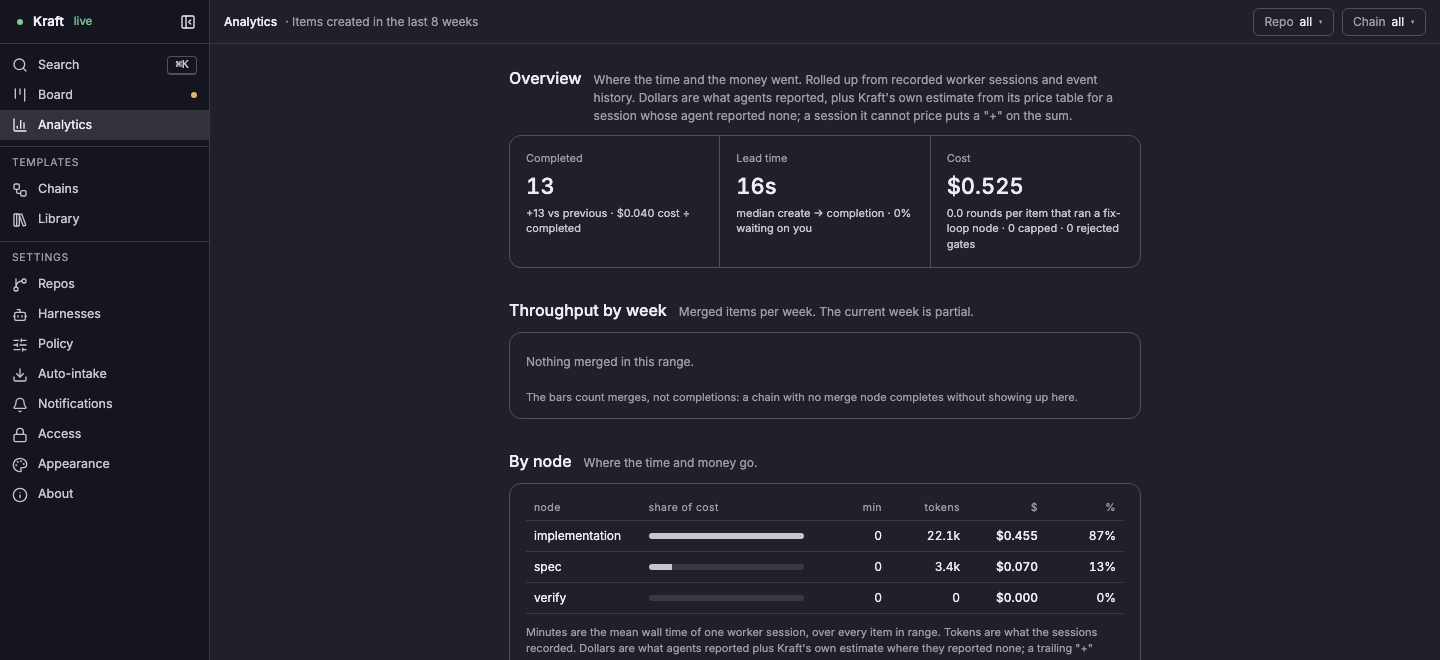
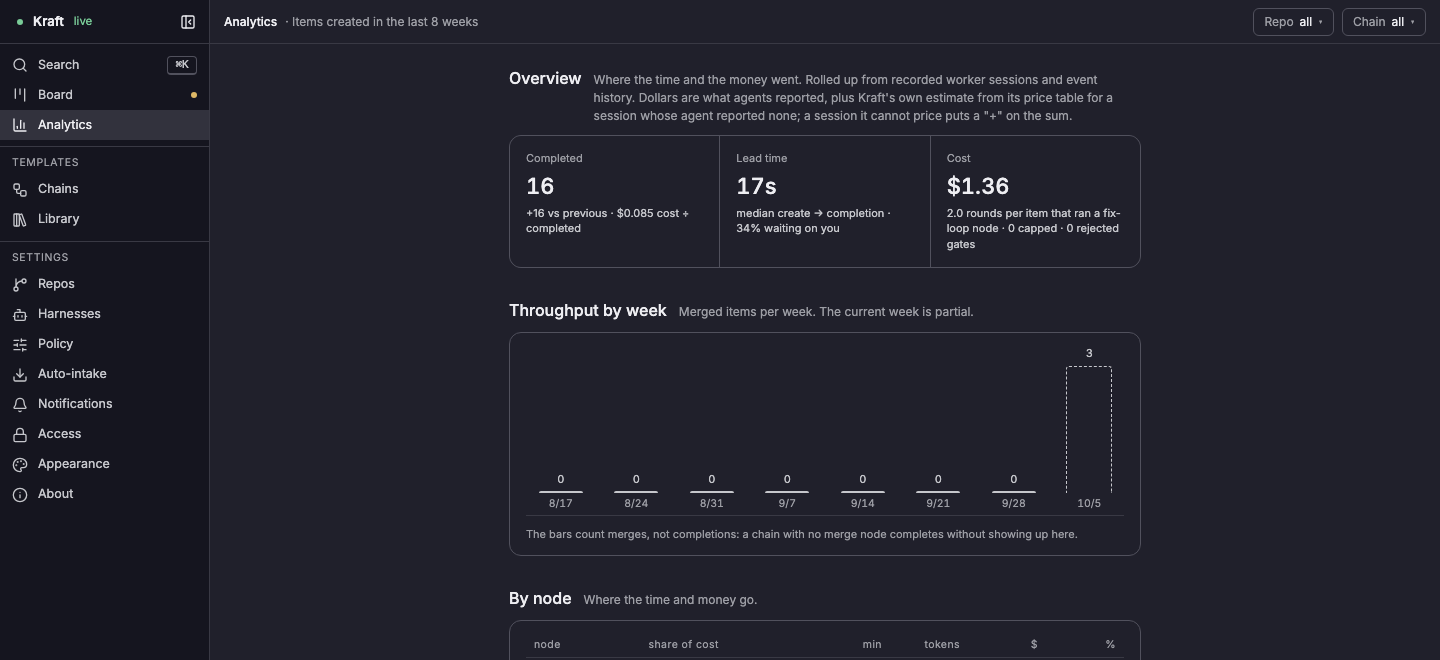
Docs pictures: analytics.png taken after three default-chain items ran to a merge, and the README step that does it

diff --git a/frontend/README.md b/frontend/README.md
@@ -320,6 +320,24 @@ variables on each one.**
    The Done group sorts the newest first, and the frame cuts it after one row:
    finish a clean item last, so an abandoned one is not the row that shows.
 
+   Analytics needs merged items: Throughput counts merges, and the dev repo
+   uses the in-process fake forge, so a default-chain item reaches `merge`.
+   File three with `--autostart` on the default chain, then approve each gate
+   as it comes (`spec_approval`, `plan_approval`, `local_review`,
+   `final_review`) until the item is `completed`. Read the state with `view
+   list`; give the wait a limit of a few minutes. Do not use the item that
+   `gate`, `item` and `review` show:
+
+   ```bash
+   KRAFT_HOME=$PWD/.dev KRAFT_PORT=8766 uv run kraft item create "Cache the schema lookups" --repo .dev/repo --autostart
+   KRAFT_HOME=$PWD/.dev KRAFT_PORT=8766 uv run kraft view list --all
+   KRAFT_HOME=$PWD/.dev KRAFT_PORT=8766 uv run kraft item approve ID
+   ```
+
+   Run `view list` and `item approve` again for each gate: an item takes four
+   approvals and about 30 seconds, and `open MR → checks done` reads `0s` on
+   the fake forge, which answers at once.
+
 4. Save this as `frontend/e2e-shots/shot.mjs` (that folder is gitignored) and,
    with `npx playwright install chromium` done once, run it from `frontend/`
    as `GATED_ID=<id> node e2e-shots/shot.mjs`. `ONLY=board,mobile` takes just

diff --git a/docsite/content/5.reference/00.web-ui/7.analytics.md b/docsite/content/5.reference/00.web-ui/7.analytics.md
@@ -5,7 +5,7 @@ description: What each figure, chart and table on the Analytics screen counts.
 
 The Analytics screen rolls up where the time and the money went across your [work items](/concepts/vocabulary#work-item). This page names each panel, figure and control, and says what each number counts. Open it from **Analytics** in the sidebar.
 
-![The Analytics screen for items created in the last 8 weeks: the Repo and Chain filters, the Completed, Lead time and Cost figures with a line of detail under each, the Throughput by week panel (empty in this sample, which merged nothing), and the top of the By node table](/assets/analytics.png)
+![The Analytics screen for items created in the last 8 weeks: the Repo and Chain filters, the Completed, Lead time and Cost figures with a line of detail under each, a Throughput by week bar of 3 merged items in the current week, and the top of the By node table](/assets/analytics.png)
 
 ## What the screen counts
 
